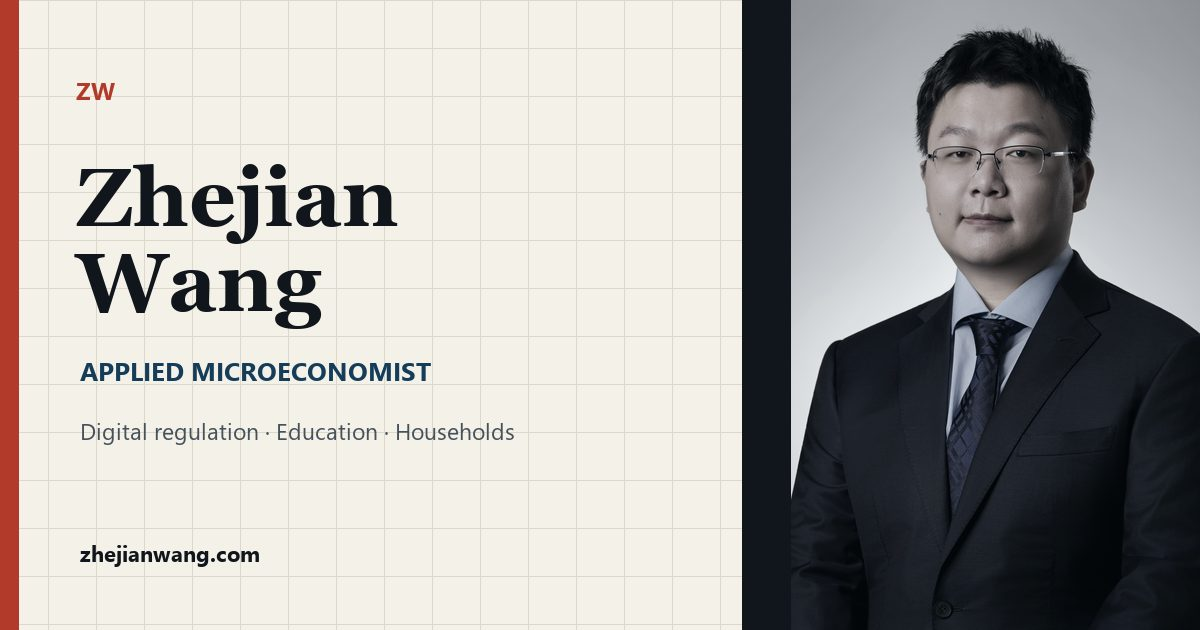
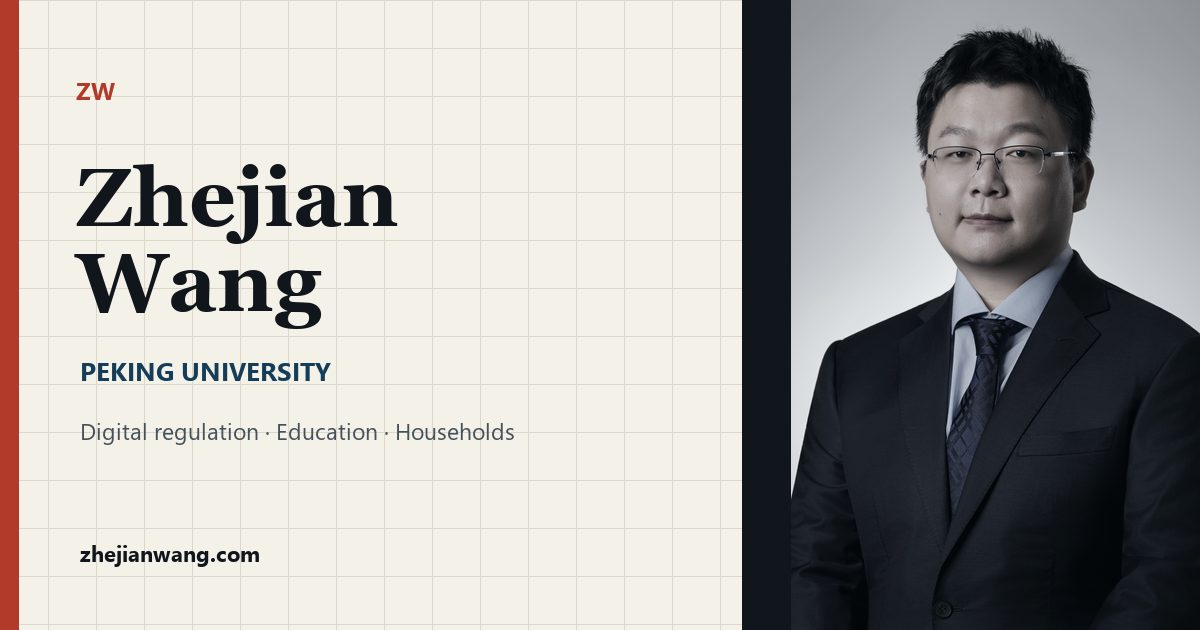
Use name-only branding and refine the research-first CV (#9)
Use Zhejian Wang in site, homepage SEO, manifest and social branding while preserving approved About copy. Publish the source-built two-page CV with Digital Economics first, two publications, four working papers and four selected WIP, verified links and supported mentor wording. Private Boya variant stays outside the repository. PDF visual/URI audits, safety, Jekyll/browser CI and 843 compiled-site checks passed.

Changed region(s): [[0.0617, 0.573, 0.37, 0.6032]]

diff --git a/scripts/build_site_images.py b/scripts/build_site_images.py
@@ -115,7 +115,7 @@ def build_profile_social_card(source: Image.Image) -> None:
     draw.text((76, 74), "ZW", font=font(BODY_BOLD, 24), fill=RED)
     draw.text((76, 150), "Zhejian", font=font(DISPLAY, 82), fill=INK)
     draw.text((76, 235), "Wang", font=font(DISPLAY, 82), fill=INK)
-    draw.text((80, 352), "APPLIED MICROECONOMIST", font=font(BODY_BOLD, 26), fill=BLUE)
+    draw.text((80, 352), "PEKING UNIVERSITY", font=font(BODY_BOLD, 26), fill=BLUE)
     draw.text(
         (80, 415),
         "Digital regulation · Education · Households",

diff --git a/_pages/about.md b/_pages/about.md
@@ -1,7 +1,8 @@
 ---
 layout: classic-single
 title: "About"
-seo_title: "Zhejian Wang - Applied Microeconomist"
+seo_title: "Zhejian Wang"
+og_title: "Zhejian Wang"
 permalink: /
 author_profile: true
 version: classic
@@ -10,7 +11,7 @@ ref: home
 canonical_url: /
 last_updated: 2026-10-08
 show_review_date: false
-excerpt: "Zhejian Wang is a Postdoctoral Fellow at the National School of Development, Peking University, and an applied microeconomist studying digital regulation, education and human capital, and household economics."
+excerpt: "Zhejian Wang is a Postdoctoral Fellow at the National School of Development, Peking University. His research in applied microeconomics examines digital regulation, education and human capital, and household economics."
 ---
 
 {% include classic/home-content.html %}

diff --git a/classic/index.md b/classic/index.md
@@ -1,6 +1,8 @@
 ---
 layout: classic-single
 title: "About"
+seo_title: "Zhejian Wang"
+og_title: "Zhejian Wang"
 permalink: /classic/
 author_profile: true
 lang: en
@@ -8,7 +10,7 @@ ref: home
 canonical_url: /
 last_updated: 2026-10-08
 show_review_date: false
-excerpt: "Zhejian Wang is a Postdoctoral Fellow at the National School of Development, Peking University, and an applied microeconomist studying digital regulation, education and human capital, and household economics."
+excerpt: "Zhejian Wang is a Postdoctoral Fellow at the National School of Development, Peking University. His research in applied microeconomics examines digital regulation, education and human capital, and household economics."
 ---
 
 {% include classic/home-content.html %}

diff --git a/_pages/modern-home.md b/_pages/modern-home.md
@@ -1,7 +1,7 @@
 ---
 layout: home-taste
 title: "Zhejian Wang"
-seo_title: "Zhejian Wang - Applied Microeconomist"
+seo_title: "Zhejian Wang"
 permalink: /modern/
 canonical_url: /
 noindex: true
@@ -11,7 +11,7 @@ lang: en
 ref: home
 taste_motion: true
 last_updated: 2026-10-08
-excerpt: "Applied microeconomist studying digital regulation, education policy, and household institutions."
+excerpt: "Zhejian Wang is a Postdoctoral Fellow at the National School of Development, Peking University. His research in applied microeconomics examines digital regulation, education and human capital, and household economics."
 ---
 
 {% assign person = site.data.person %}
